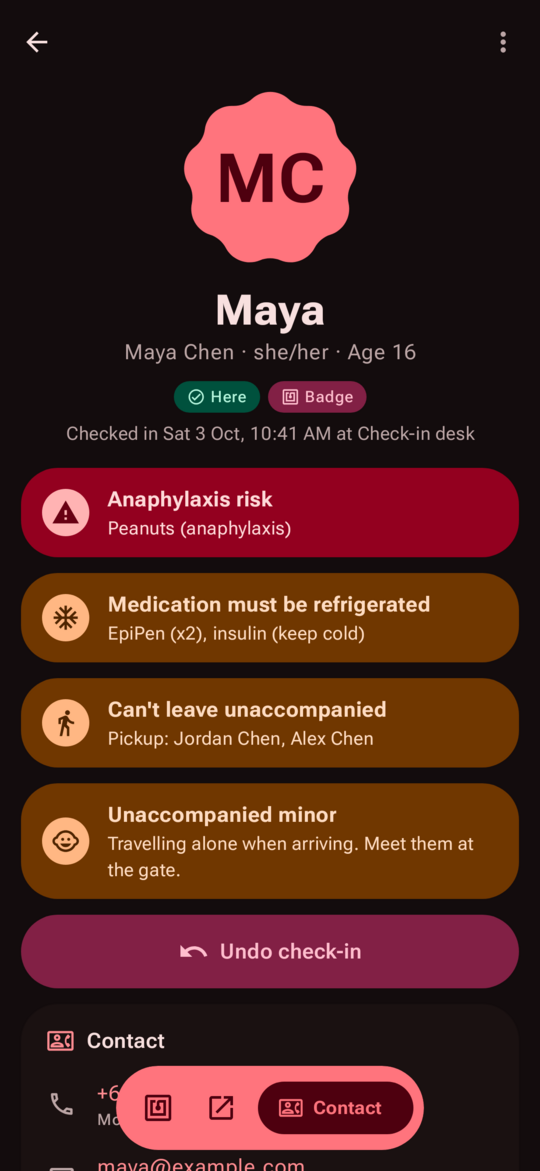
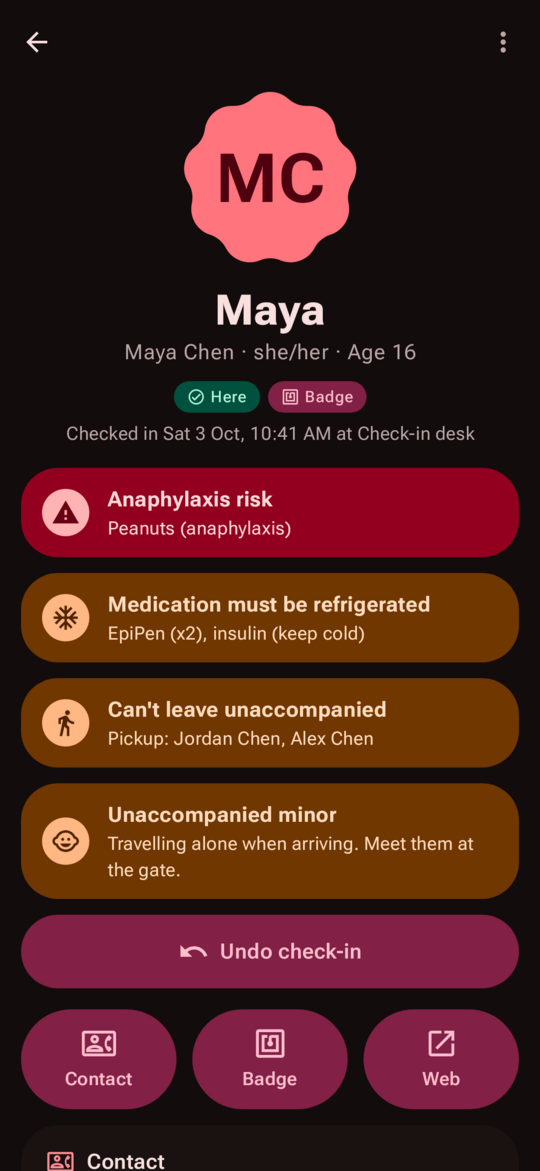
Android: revert the participant page's floating toolbar (#12)
Contact, Badge, Edit and Web go back to the labelled button group under
the check-in buttons; the snackbar and list padding no longer make room
for a toolbar. Refresh the README participant screenshots.

Claude-Session: https://claude.ai/code/session_014KXDi9eQXaTrQTxEJtVFJZ

Changed region(s): [[0.0296, 0.8608, 0.9778, 1.0]]

diff --git a/android/app/src/main/java/au/ingo/betterattend/ui/people/ParticipantDetailScreen.kt b/android/app/src/main/java/au/ingo/betterattend/ui/people/ParticipantDetailScreen.kt
@@ -60,6 +60,8 @@ import androidx.compose.material.icons.outlined.RestartAlt
 import androidx.compose.material3.IconButtonDefaults
 import androidx.compose.material3.Button
 import androidx.compose.material3.ButtonDefaults
+import androidx.compose.material3.ButtonGroup
+import androidx.compose.material3.ButtonGroupDefaults
 import androidx.compose.material3.DropdownMenu
 import androidx.compose.material3.DropdownMenuItem
 import androidx.compose.material3.FilledTonalButton
@@ -74,22 +76,11 @@ import androidx.activity.compose.BackHandler
 import androidx.compose.material3.MaterialShapes
 import androidx.compose.material3.MaterialTheme
 import androidx.compose.material3.Scaffold
-import androidx.compose.material3.FloatingToolbarDefaults
-import androidx.compose.material3.FloatingToolbarExitDirection
-import androidx.compose.material3.FloatingToolbarScrollBehavior
-import androidx.compose.material3.HorizontalFloatingToolbar
-import androidx.compose.material3.PlainTooltip
-import androidx.compose.material3.TooltipAnchorPosition
-import androidx.compose.material3.TooltipBox
-import androidx.compose.material3.TooltipDefaults
-import androidx.compose.material3.rememberTooltipState
-import androidx.compose.foundation.layout.offset
 import androidx.compose.material3.SnackbarHost
 import androidx.compose.material3.SnackbarHostState
 import androidx.compose.material3.SplitButtonDefaults
 import androidx.compose.material3.SplitButtonLayout
 import androidx.compose.material3.Text
-import androidx.compose.ui.text.font.FontWeight
 import androidx.compose.material3.TopAppBar
 import androidx.compose.material3.TopAppBarDefaults
 import androidx.compose.material3.toShape
@@ -114,7 +105,6 @@ import androidx.compose.ui.platform.LocalContext
 import androidx.compose.ui.semantics.LiveRegionMode
 import androidx.compose.ui.semantics.liveRegion
 import androidx.compose.ui.semantics.semantics
-import androidx.compose.ui.semantics.contentDescription
 import androidx.compose.ui.graphics.vector.ImageVector
 import androidx.compose.ui.text.style.TextAlign
 import androidx.compose.ui.text.style.TextOverflow
@@ -392,8 +382,7 @@ fun ParticipantDetailContent(
 
     Scaffold(
         modifier = Modifier.nestedScroll(scroll.nestedScrollConnection),
-        // Above the floating toolbar, so a snackbar never hides the actions.
-        snackbarHost = { SnackbarHost(snackbar, Modifier.padding(bottom = FloatingToolbarDefaults.ContainerSize + FloatingToolbarDefaults.ScreenOffset)) },
+        snackbarHost = { SnackbarHost(snackbar) },
         topBar = {
             TopAppBar(
                 title = {
@@ -440,18 +429,8 @@ fun ParticipantDetailContent(
                         body = state.error ?: "They may have been removed from this event.",
                         actionLabel = "Try again", onAction = callbacks.refresh,
                     )
-                    else -> {
-                        // The person's actions float at the bottom and tuck away while scrolling down.
-                        val toolbarScroll = FloatingToolbarDefaults.exitAlwaysScrollBehavior(exitDirection = FloatingToolbarExitDirection.Bottom)
-                        Box(Modifier.fillMaxSize().nestedScroll(toolbarScroll)) {
-                            HapticPullToRefreshBox(isRefreshing = state.loading && state.detailLoaded, onRefresh = callbacks.refresh) {
-                                DetailBody(state, p, tz, now, list, callbacks) { dialog = it }
-                            }
-                            ActionsToolbar(
-                                state, p, callbacks, { dialog = it }, toolbarScroll,
-                                Modifier.align(Alignment.BottomCenter).offset(y = -FloatingToolbarDefaults.ScreenOffset),
-                            )
-                        }
+                    else -> HapticPullToRefreshBox(isRefreshing = state.loading && state.detailLoaded, onRefresh = callbacks.refresh) {
+                        DetailBody(state, p, tz, now, list, callbacks) { dialog = it }
                     }
                 }
             }
@@ -560,8 +539,7 @@ private fun DetailBody(
     LazyColumn(
         state = list,
         modifier = Modifier.fillMaxSize(),
-        // Room at the bottom for the floating toolbar.
-        contentPadding = PaddingValues(start = 16.dp, end = 16.dp, bottom = 112.dp),
+        contentPadding = PaddingValues(start = 16.dp, end = 16.dp, bottom = 32.dp),
         verticalArrangement = Arrangement.spacedBy(12.dp),
     ) {
         // Sections fill in as the full profile arrives: each one fades in / grows and the rest glide
@@ -661,78 +639,61 @@ private fun ActionsPanel(state: DetailUiState, p: Participant, callbacks: Detail
             },
             label = "checkInButtons",
         ) { checkedIn -> CheckInButtons(state, p, checkedIn, callbacks, onDialog) }
+        // One row; every way to reach them sits behind Contact, in a sheet.
+        val reachable = remember(p, state.canViewPii) { contactOptions(p, state.canViewPii, ContactActions()).isNotEmpty() }
+        val actions = buildList {
+            if (reachable) add(QuickAction(Icons.Outlined.ContactPhone, "Contact") { onDialog("contact") })
+            add(QuickAction(Icons.Outlined.Nfc, "Badge", busy = state.busy == DetailBusy.ResettingBadge, onClick = callbacks.writeBadge))
+            // Only once the full profile is here: the roster copy has no legal names or birthday.
+            if (state.canEditDetails && state.detailLoaded) add(QuickAction(Icons.Outlined.Edit, "Edit", onClick = callbacks.editDetails))
+            if (state.event != null) add(QuickAction(Icons.AutoMirrored.Outlined.OpenInNew, "Web", onClick = callbacks.openWeb))
+        }
+        QuickActionGroup(actions)
     }
 }
 
 private class QuickAction(val icon: ImageVector, val label: String, val busy: Boolean = false, val onClick: () -> Unit)
 
 /**
- * The person's secondary actions (contact, badge, edit, web) in an Expressive floating toolbar: a
- * vibrant pill at the bottom of the screen that slides away while scrolling down and returns on the
- * way back up. Contact, the most used, is the toolbar's filled action; every way to reach them sits
- * behind it, in a sheet.
+ * An expressive button group, like Home's quick actions: pill buttons share the row, the pressed one
+ * squares off and pushes its neighbours aside, and any that don't fit move into an overflow menu.
  */
 @Composable
-private fun ActionsToolbar(
-    state: DetailUiState,
-    p: Participant,
-    callbacks: DetailCallbacks,
-    onDialog: (String) -> Unit,
-    scrollBehavior: FloatingToolbarScrollBehavior,
-    modifier: Modifier = Modifier,
-) {
-    val reachable = remember(p, state.canViewPii) { contactOptions(p, state.canViewPii, ContactActions()).isNotEmpty() }
-    val actions = buildList {
-        add(QuickAction(Icons.Outlined.Nfc, "Badge", busy = state.busy == DetailBusy.ResettingBadge, onClick = callbacks.writeBadge))
-        // Only once the full profile is here: the roster copy has no legal names or birthday.
-        if (state.canEditDetails && state.detailLoaded) add(QuickAction(Icons.Outlined.Edit, "Edit", onClick = callbacks.editDetails))
-        if (state.event != null) add(QuickAction(Icons.AutoMirrored.Outlined.OpenInNew, "Web", onClick = callbacks.openWeb))
-    }
-    val colors = FloatingToolbarDefaults.vibrantFloatingToolbarColors()
-    HorizontalFloatingToolbar(
-        expanded = true,
-        colors = colors,
-        scrollBehavior = scrollBehavior,
-        modifier = modifier,
-        content = {
-            actions.forEach { a ->
-                TooltipIconButton(a.label) {
-                    IconButton(
+private fun QuickActionGroup(actions: List<QuickAction>) {
+    ButtonGroup(
+        overflowIndicator = { menu -> ButtonGroupDefaults.OverflowIndicator(menu) },
+        modifier = Modifier.fillMaxWidth(),
+    ) {
+        actions.forEach { a ->
+            customItem(
+                buttonGroupContent = {
+                    val source = remember { MutableInteractionSource() }
+                    FilledTonalButton(
                         onClick = a.onClick,
                         enabled = !a.busy,
-                        shapes = IconButtonDefaults.shapes(),
-                        // Labelled on the button, so it keeps its name while the icon is swapped for a spinner.
-                        modifier = Modifier.semantics { contentDescription = a.label },
+                        shapes = ButtonDefaults.shapes(),
+                        interactionSource = source,
+                        contentPadding = PaddingValues(horizontal = 4.dp, vertical = 12.dp),
+                        modifier = Modifier.weight(1f).animateWidth(source).heightIn(min = 76.dp),
                     ) {
-                        if (a.busy) LoadingIndicator(Modifier.size(24.dp)) else Icon(a.icon, null)
+                        Column(horizontalAlignment = Alignment.CenterHorizontally) {
+                            if (a.busy) LoadingIndicator(Modifier.size(26.dp)) else Icon(a.icon, null, Modifier.size(26.dp))
+                            Spacer(Modifier.height(4.dp))
+                            Text(a.label, style = MaterialTheme.typography.labelLarge, maxLines = 1, overflow = TextOverflow.Ellipsis)
+                        }
                     }
-                }
-            }
-            if (reachable) {
-                Spacer(Modifier.width(4.dp))
-                Button(
-                    onClick = { onDialog("contact") },
-                    shapes = ButtonDefaults.shapes(),
-                    colors = ButtonDefaults.buttonColors(containerColor = colors.toolbarContentColor, contentColor = colors.toolbarContainerColor),
-                    contentPadding = ButtonDefaults.ButtonWithIconContentPadding,
-                ) {
-                    Icon(Icons.Outlined.ContactPhone, null, Modifier.size(ButtonDefaults.IconSize))
-                    Spacer(Modifier.width(ButtonDefaults.IconSpacing))
-                    Text("Contact", fontWeight = FontWeight.Bold)
-                }
-            }
-        },
-    )
-}
-
-/** An icon button with its label as a long-press tooltip, since the toolbar shows icons only. */
-@Composable
-private fun TooltipIconButton(label: String, content: @Composable () -> Unit) {
-    TooltipBox(
-        positionProvider = TooltipDefaults.rememberTooltipPositionProvider(TooltipAnchorPosition.Above),
-        tooltip = { PlainTooltip { Text(label) } },
-        state = rememberTooltipState(),
-    ) { content() }
+                },
+                menuContent = { menu ->
+                    DropdownMenuItem(
+                        text = { Text(a.label) },
+                        leadingIcon = { Icon(a.icon, null) },
+                        enabled = !a.busy,
+                        onClick = { menu.dismiss(); a.onClick() },
+                    )
+                },
+            )
+        }
+    }
 }
 
 @Composable
